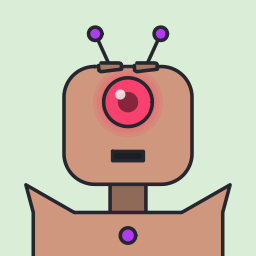
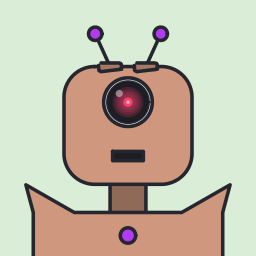
Make the cyclops eye HAL-style
Black lens inside a metal ring, with the glow lit in the center (solid
core with a pale hot spot, fading out in translucent steps) and a faint
glint. The outer halo is gone for the cyclops.

Changed region(s): [[0.375, 0.2812, 0.625, 0.5312]]

diff --git a/robot/part_eyes.go b/robot/part_eyes.go
@@ -33,16 +33,7 @@ var eyeParts = map[string]part{
 		c.dc.Fill()
 		highlight(c, b.CX()-130, y-10, 9)
 	},
-	"cyclops": func(c *canvas, s Spec, b Layout) {
-		glow, x, y := parseHex(s.Glow), b.CX(), eyeY(s, b)
-		halo(c, x, y, cyclopsRadius, glow)
-		c.dc.DrawCircle(x, y, cyclopsRadius)
-		c.fillOutlined(glow)
-		c.dc.DrawCircle(x, y, 40)
-		c.dc.SetColor(shade(glow, 0.55))
-		c.dc.Fill()
-		highlight(c, x-30, y-30, 20)
-	},
+	"cyclops": drawHAL,
 	"led": func(c *canvas, s Spec, b Layout) {
 		glow, y := parseHex(s.Glow), eyeY(s, b)
 		for _, x := range eyeXs(b) {
@@ -56,6 +47,43 @@ var eyeParts = map[string]part{
 			c.strokeWith(ink, 6)
 		}
 	},
+}
+
+// Cyclops (HAL-style) geometry: a metal ring around a black lens with the
+// glow lit in its center.
+const (
+	cyclopsRing     = 12.0 // width of the metal ring inside the outline
+	cyclopsCore     = 18.0 // radius of the solid glow core
+	cyclopsGlowFade = 60.0 // radius the glow fades out by
+	cyclopsHotSpot  = 7.0  // radius of the pale center of the core
+)
+
+func drawHAL(c *canvas, s Spec, b Layout) {
+	glow, x, y := parseHex(s.Glow), b.CX(), eyeY(s, b)
+	c.dc.DrawCircle(x, y, cyclopsRadius)
+	c.fillOutlined(metal)
+	c.dc.DrawCircle(x, y, cyclopsRadius-cyclopsRing)
+	c.dc.SetColor(screen)
+	c.dc.FillPreserve()
+	c.dc.SetColor(ink)
+	c.lw(5)
+	c.dc.Stroke()
+	// The glow fades out from the core in translucent steps.
+	for r := cyclopsGlowFade; r > cyclopsCore; r -= 10 {
+		c.dc.DrawCircle(x, y, r)
+		c.dc.SetColor(withAlpha(glow, 45))
+		c.dc.Fill()
+	}
+	c.dc.DrawCircle(x, y, cyclopsCore)
+	c.dc.SetColor(glow)
+	c.dc.Fill()
+	c.dc.DrawCircle(x, y, cyclopsHotSpot)
+	c.dc.SetColor(mix(glow, color.NRGBA{255, 255, 255, 255}, 0.6))
+	c.dc.Fill()
+	// A faint glint on the glass.
+	c.dc.DrawCircle(x-34, y-34, 14)
+	c.dc.SetColor(color.NRGBA{255, 255, 255, 110})
+	c.dc.Fill()
 }
 
 // halo paints a soft glow behind an eye as stacked translucent discs.

diff --git a/robot/render_test.go b/robot/render_test.go
@@ -106,12 +106,24 @@ func TestRenderShoulders(t *testing.T) {
 	}
 }
 
-func TestRenderCyclopsUsesGlow(t *testing.T) {
+// TestRenderCyclopsHAL checks the HAL-style cyclops: a black lens with the
+// glow lit in its center, inside a metal ring.
+func TestRenderCyclopsHAL(t *testing.T) {
 	s := Resolve(Spec{Eyes: "cyclops", Face: &neutral, Glow: "#00ff00"}, 4)
-	// A point on the lens ring: right of center, between pupil (r40) and rim (r95).
-	got := pixel(Render(s, 200), 200, 565, 444)
-	if !near(got, color.NRGBA{0, 255, 0, 255}) {
-		t.Errorf("lens = %v, want glow color", got)
+	ey, _ := facePos(s, headBox)
+	img := Render(s, 1000)
+	for _, p := range []struct {
+		name string
+		dx   float64 // distance right of the eye's center
+		want color.NRGBA
+	}{
+		{"glow core", 12, color.NRGBA{0, 255, 0, 255}},
+		{"dark lens", 72, screen},
+		{"metal ring", 86, metal},
+	} {
+		if got := pixel(img, 1000, headBox.CX()+p.dx, ey); !near(got, p.want) {
+			t.Errorf("%s at +%v = %v, want %v", p.name, p.dx, got, p.want)
+		}
 	}
 }
 
@@ -162,14 +174,14 @@ func TestRenderExpressionBendsLine(t *testing.T) {
 func TestRenderFaceMovesEyes(t *testing.T) {
 	no := false
 	glow := color.NRGBA{0, 255, 0, 255}
-	pupil := shade(glow, 0.55)
+	core := glow // the cyclops' solid glow core, just off its hot-spot center
 	for _, face := range []int{-1, 0, 1, 2} {
 		for _, head := range HeadValues {
 			s := Resolve(Spec{Head: head, Eyes: "cyclops", Face: &face, Glow: "#00ff00",
 				Rivets: &no, Panels: &no, Blush: &no}, 5)
 			ey, _ := facePos(s, headBox)
-			if got := pixel(Render(s, 1000), 1000, 500, ey); !near(got, pupil) {
-				t.Errorf("face=%d head=%s: pupil at y=%v = %v, want %v", face, head, ey, got, pupil)
+			if got := pixel(Render(s, 1000), 1000, 512, ey); !near(got, core) {
+				t.Errorf("face=%d head=%s: glow core at y=%v = %v, want %v", face, head, ey, got, core)
 			}
 		}
 	}

diff --git a/robot/color.go b/robot/color.go
@@ -56,3 +56,9 @@ func withAlpha(c color.NRGBA, a uint8) color.NRGBA {
 	c.A = a
 	return c
 }
+
+// mix blends a toward b by t in [0,1].
+func mix(a, b color.NRGBA, t float64) color.NRGBA {
+	ch := func(x, y uint8) uint8 { return uint8(math.Round(float64(x) + (float64(y)-float64(x))*t)) }
+	return color.NRGBA{ch(a.R, b.R), ch(a.G, b.G), ch(a.B, b.B), ch(a.A, b.A)}
+}
